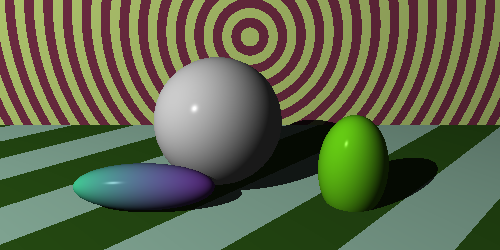
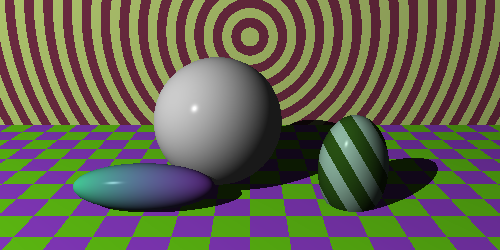
Go ray tracer; implement checkers pattern

diff --git a/books/gray/figure/pattern.go b/books/gray/figure/pattern.go
@@ -17,6 +17,7 @@ func PatternAtShape(pattern Pattern, shape Shape, worldPoint oned.Point) oned.Co
 	return pattern.PatternAt(patternPoint)
 }
 
+//todo refactor: remove duplicates
 type StripePattern struct {
 	A, B      oned.Color
 	transform multid.Matrix4
@@ -75,15 +76,38 @@ func MakeRingPatternT(a, b oned.Color, transform multid.Matrix4) RingPattern {
 }
 
 func (p RingPattern) PatternAt(point oned.Point) oned.Color {
-	hypot := math.Hypot(point.X, point.Z)
-	floor := math.Floor(hypot)
-	mod := math.Mod(floor, 2)
-	if mod == 0 {
+	hypot := math.Floor(math.Hypot(point.X, point.Z))
+	if math.Mod(hypot, 2) == 0 {
 		return p.A
 	}
 	return p.B
 }
 
 func (p RingPattern) Transform() multid.Matrix4 {
+	return p.transform
+}
+
+type CheckersPattern struct {
+	A, B      oned.Color
+	transform multid.Matrix4
+}
+
+func MakeCheckersPattern(a, b oned.Color) CheckersPattern {
+	return CheckersPattern{a, b, multid.IdentityMatrix}
+}
+
+func MakeCheckersPatternT(a, b oned.Color, transform multid.Matrix4) CheckersPattern {
+	return CheckersPattern{a, b, transform}
+}
+
+func (p CheckersPattern) PatternAt(point oned.Point) oned.Color {
+	sum := math.Floor(point.X) + math.Floor(point.Y) + math.Floor(point.Z)
+	if math.Mod(sum, 2) == 0 {
+		return p.A
+	}
+	return p.B
+}
+
+func (p CheckersPattern) Transform() multid.Matrix4 {
 	return p.transform
 }

diff --git a/books/gray/figure/pattern_test.go b/books/gray/figure/pattern_test.go
@@ -86,6 +86,20 @@ func Test_ring_should_extend_in_both_x_and_z(t *testing.T) {
 	assert.Equal(t, oned.Black, pattern.PatternAt(oned.Point{1, 0, 0}))
 	assert.Equal(t, oned.Black, pattern.PatternAt(oned.Point{0, 0, 1}))
 	assert.Equal(t, oned.Black, pattern.PatternAt(oned.Point{0.708, 0, 0.708}))
-
 }
 
+func Test_checkers_should_repeat_in_x_y_z(t *testing.T) {
+	pattern := MakeCheckersPattern(oned.White, oned.Black)
+
+	assert.Equal(t, oned.White, pattern.PatternAt(oned.Point{0, 0, 0}))
+	assert.Equal(t, oned.White, pattern.PatternAt(oned.Point{0.99, 0, 0}))
+	assert.Equal(t, oned.Black, pattern.PatternAt(oned.Point{1.01, 0, 0}))
+
+	assert.Equal(t, oned.White, pattern.PatternAt(oned.Point{0, 0, 0}))
+	assert.Equal(t, oned.White, pattern.PatternAt(oned.Point{0, 0.99, 0}))
+	assert.Equal(t, oned.Black, pattern.PatternAt(oned.Point{0, 1.01, 0}))
+
+	assert.Equal(t, oned.White, pattern.PatternAt(oned.Point{0, 0, 0}))
+	assert.Equal(t, oned.White, pattern.PatternAt(oned.Point{0, 0, 0.99}))
+	assert.Equal(t, oned.Black, pattern.PatternAt(oned.Point{0, 0, 1.01}))
+}

diff --git a/books/gray/samples/plane_scene_sample_test.go b/books/gray/samples/plane_scene_sample_test.go
@@ -12,10 +12,12 @@ func Test_plane_scene_sample(t *testing.T) {
 	floor := figure.MakePlaneTM(
 		multid.IdentityMatrix,
 		figure.MakeMaterialBuilder().
-			SetPattern(figure.MakeStripePatternT(
-				oned.Color{0.7, 0.9, 0.8},
-				oned.Color{0.2, 0.4, 0.1},
-				multid.RotationY(math.Pi/4))).
+			SetPattern(figure.MakeCheckersPatternT(
+				oned.Color{0.5, 1, 0.1},
+				oned.Color{0.7, 0.3, 1},
+				multid.Translation(1, 0, 0).
+					Multiply(multid.Scaling(0.5, 0.5, 0.5)))).
+
 			Build())
 
 	back := figure.MakePlaneTM(
@@ -51,7 +53,11 @@ func Test_plane_scene_sample(t *testing.T) {
 		multid.Translation(1.5, 0.5, -0.5).
 			Multiply(multid.Scaling(0.5, 0.8, 0.5)),
 		figure.MakeMaterialBuilder().
-			SetColor(oned.Color{0.5, 1, 0.1}).
+			SetPattern(figure.MakeStripePatternT(
+				oned.Color{0.7, 0.9, 0.8},
+				oned.Color{0.2, 0.4, 0.1},
+				multid.RotationZ(math.Pi/4).
+					Multiply(multid.Scaling(0.3, 0.3, 0.3)))).
 			SetDiffuse(0.7).
 			SetSpecular(0.3).Build())
 

diff --git a/books/gray/figure/world.go b/books/gray/figure/world.go
@@ -25,7 +25,7 @@ func (w World) ShadeHit(comps Computations) oned.Color {
 	return Lighting(comps.Object.Material(),
 		comps.Object,
 		w.Light,
-		comps.Point,
+		comps.OverPoint,
 		comps.EyeV,
 		comps.NormalV,
 		w.IsShadowed(comps.OverPoint))
